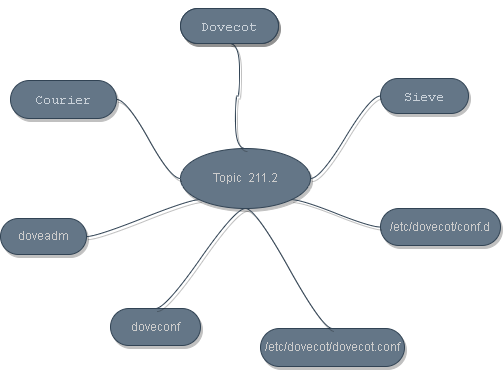
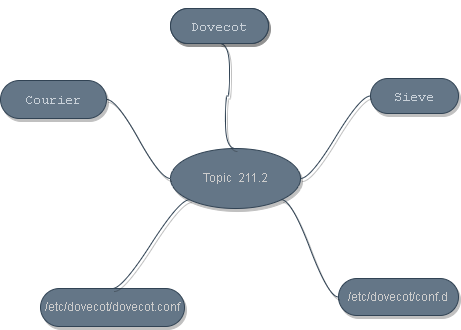
Fix README of DHCP,OpenLDAP and FS

diff --git a/Vagrant/MAIL/README.md b/Vagrant/MAIL/README.md
@@ -2,9 +2,9 @@
 
 [![Check http Stack](https://github.com/marcossilvestrini/learning-lpic-2-202-450/actions/workflows/check-bind-stack.yml/badge.svg)](https://github.com/marcossilvestrini/learning-lpic-2-202-450/actions/workflows/check-bind-stack.yml) [![Check http Stack](https://github.com/marcossilvestrini/learning-lpic-2-202-450/actions/workflows/check-http-stack.yml/badge.svg)](https://github.com/marcossilvestrini/learning-lpic-2-202-450/actions/workflows/check-http-stack.yml) [![PSScriptAnalyzer](https://github.com/marcossilvestrini/learning-lpic-2-202-450/actions/workflows/powershell.yml/badge.svg)](https://github.com/marcossilvestrini/learning-lpic-2-202-450/actions/workflows/powershell.yml)
 
-# FILE SHARING
+# POSTFIX - DOVECOT
 
-![202-450 Linux Engineer](../../Images/file_sharing.jpg)
+![202-450 Linux Engineer](../../Images/postfix-dovecot.png)
 
 <p align="center">
 <strong>Explore the docs »</strong></a>
@@ -44,19 +44,33 @@
 
 ## About Project
 
-This project up a stack of File share servers with Samba and NFS for labs.
+This project up a stack of servers with Postfix and Dovecot for labs.
 
 ## Whats is?
 
-In this project, I up a stack of File share servers with Samba and NFS.
+In this project, I up a stack of servers with Postfix and Dovecot.
 
+Servers:
+
+* ol9-server01
+  * dns bind
+  * postfix
+  * dovecot
+
+* debian-server01
+  * postfix
+
+* debian-client01
+  * dovecot
+  * thunderbird
+  
 ### Vagrant
 
- I use vagrant for provision all http server in this project.
+ I use vagrant for provision all servers in this project.
 
 ### Shell provisioner
 
-I use vagrant shell provisioner for configure samba service, nfs and others tools of this stack
+I use vagrant shell provisioner for configure postfix service, dovecot and others tools of this stack
 
 ### Git Actions (pipelines)
 
@@ -112,12 +126,21 @@ vagrant up
 
 ## Roadmap
 
-* [x] Install And Configure Samba
-  * [x] Install Samba
-  * [x] Configure Samba
-* [x] Install And Configure Samba
-  * [x] Install NFS
-  * [x] Configure NFS
+* [x] Install And Configure Postfix
+  * [x] Install Postfix
+  * [x] Configure Postfix
+    * [x] Configure Canonical Maps
+    * [x] Configure Aliases
+* [x] Install And Configure Dovecot
+  * [x] Install Dovecot
+  * [x] Generate certificates for MTA
+  * [x] Configure Dovecot
+    * [x] Set files /etc/dovecot/conf.d
+    * [x] Create rules per user in ~/.dovecot.sieve
+    * [x] Enable IMAP and POP3 support
+* [x] Install And Postfix Client
+  * [x] Install dovecot utils
+  * [x] Install thunderbird
 
 <p align="right">(<a href="#readme-top">back to top</a>)</p>
 
@@ -151,8 +174,9 @@ Project Link: [https://github.com/marcossilvestrini/learning-lpic-2-202-450](htt
 
 ## Acknowledgments
 
-* [Samba](samba.org)
-* [NFS](https://linux-nfs.org/wiki/index.php/Main_Page)
+* [Postfix](https://www.postfix.org/)
+* [Dovecot](https://www.dovecot.org/)
+* [Sieve Language](http://sieve.info/)
 
 <p align="right">(<a href="#readme-top">back to top</a>)</p>
 

diff --git a/Vagrant/DHCP_LDAP/README.md b/Vagrant/DHCP_LDAP/README.md
@@ -2,9 +2,9 @@
 
 [![Check http Stack](https://github.com/marcossilvestrini/learning-lpic-2-202-450/actions/workflows/check-bind-stack.yml/badge.svg)](https://github.com/marcossilvestrini/learning-lpic-2-202-450/actions/workflows/check-bind-stack.yml) [![Check http Stack](https://github.com/marcossilvestrini/learning-lpic-2-202-450/actions/workflows/check-http-stack.yml/badge.svg)](https://github.com/marcossilvestrini/learning-lpic-2-202-450/actions/workflows/check-http-stack.yml) [![PSScriptAnalyzer](https://github.com/marcossilvestrini/learning-lpic-2-202-450/actions/workflows/powershell.yml/badge.svg)](https://github.com/marcossilvestrini/learning-lpic-2-202-450/actions/workflows/powershell.yml)
 
-# FILE SHARING
+# DHCP - OpenLDAP
 
-![202-450 Linux Engineer](../../Images/file_sharing.jpg)
+![202-450 Linux Engineer](../../Images/openldap.png)
 
 <p align="center">
 <strong>Explore the docs »</strong></a>
@@ -44,15 +44,18 @@
 
 ## About Project
 
-This project up a stack of File share servers with Samba and NFS for labs.
+This project up and configuration a stack of:
+
+* DHCP Server
+* OpenLDAP Server
 
 ## Whats is?
 
-In this project, I up a stack of File share servers with Samba and NFS.
+In this project, I up a stack of DHCP Server, OpenLDAP.
 
 ### Vagrant
 
- I use vagrant for provision all http server in this project.
+ I use vagrant for provision all servers in this project.
 
 ### Shell provisioner
 
@@ -102,7 +105,7 @@ git clone https://github.com/marcossilvestrini/learning-lpic-2-202-450.git
 ## Usage
 
 ```sh
-cd Vagrant/HTTP
+cd Vagrant/DHCP_LDAP
 vagrant up
 ```
 
@@ -112,12 +115,14 @@ vagrant up
 
 ## Roadmap
 
-* [x] Install And Configure Samba
-  * [x] Install Samba
-  * [x] Configure Samba
-* [x] Install And Configure Samba
-  * [x] Install NFS
-  * [x] Configure NFS
+* [x] Install And Configure ISC DHCP Server
+  * [x] Install DHCP Server
+  * [x] Configure DHCP Server
+* [x] Install And Configure OpenLDAP
+  * [x] Install OpenLDAP
+  * [x] Configure OpenLDAP
+  * [x] Append Test .ldif Database in OpenLDAP 
+
 
 <p align="right">(<a href="#readme-top">back to top</a>)</p>
 
@@ -151,8 +156,9 @@ Project Link: [https://github.com/marcossilvestrini/learning-lpic-2-202-450](htt
 
 ## Acknowledgments
 
-* [Samba](samba.org)
-* [NFS](https://linux-nfs.org/wiki/index.php/Main_Page)
+* [ISC DHCP](https://www.isc.org/dhcp/)
+* [OpenLDAP](https://www.openldap.org/)
+* [PAM](https://www.ibm.com/docs/en/aix/7.2?topic=system-pluggable-authentication-modules)
 
 <p align="right">(<a href="#readme-top">back to top</a>)</p>
 

diff --git a/README.md b/README.md
@@ -1490,7 +1490,37 @@ Dovecot vacation extension
 
 ![Mind Map](Images/mindmap-211.2.png)
 
-#### 211.2 Important Commands
+<p align="right">(<a href="#topic-211.2">back to sub topic 211.2</a>)</p>
+<p align="right">(<a href="#topic-211">back to topic 211</a>)</p>
+<p align="right">(<a href="#readme-top">back to top</a>)</p>
+
+<a name="topic-211.3"></a>
+
+### 211.3 Managing Mailbox
+
+**Weight:** 2
+
+**Description:**
+Candidates should be able to install and configure POP and IMAP daemons.
+
+**Key Knowledge Areas:**
+
+* Dovecot IMAP and POP3 configuration and administration
+* Basic TLS configuration for Dovecot
+* Awareness of Courier
+
+#### 211.3  Cited Object
+
+```sh
+/etc/dovecot/
+dovecot.conf
+doveconf
+doveadm
+```
+
+![Mind Map](Images/mindmap-211.3.png)
+
+#### 211.3 Important Commands
 
 ##### doveconf
 
@@ -1523,37 +1553,6 @@ doveadm who
 # Test user connection
 doveadm auth test vagrant
 ```
-
-
-<p align="right">(<a href="#topic-211.2">back to sub topic 211.2</a>)</p>
-<p align="right">(<a href="#topic-211">back to topic 211</a>)</p>
-<p align="right">(<a href="#readme-top">back to top</a>)</p>
-
-<a name="topic-211.3"></a>
-
-### 211.3 Managing Mailbox
-
-**Weight:** 2
-
-**Description:**
-Candidates should be able to install and configure POP and IMAP daemons.
-
-**Key Knowledge Areas:**
-
-* Dovecot IMAP and POP3 configuration and administration
-* Basic TLS configuration for Dovecot
-* Awareness of Courier
-
-#### 211.3  Cited Object
-
-```sh
-/etc/dovecot/
-dovecot.conf
-doveconf
-doveadm
-```
-
-![Mind Map](Images/mindmap-211.3.png)
 
 <p align="right">(<a href="#topic-211.3">back to sub topic 211.3</a>)</p>
 <p align="right">(<a href="#topic-211">back to topic 211</a>)</p>

diff --git a/Vagrant/FS/README.md b/Vagrant/FS/README.md
@@ -52,7 +52,7 @@ In this project, I up a stack of File share servers with Samba and NFS.
 
 ### Vagrant
 
- I use vagrant for provision all http server in this project.
+ I use vagrant for provision all File system server in this project.
 
 ### Shell provisioner
 
